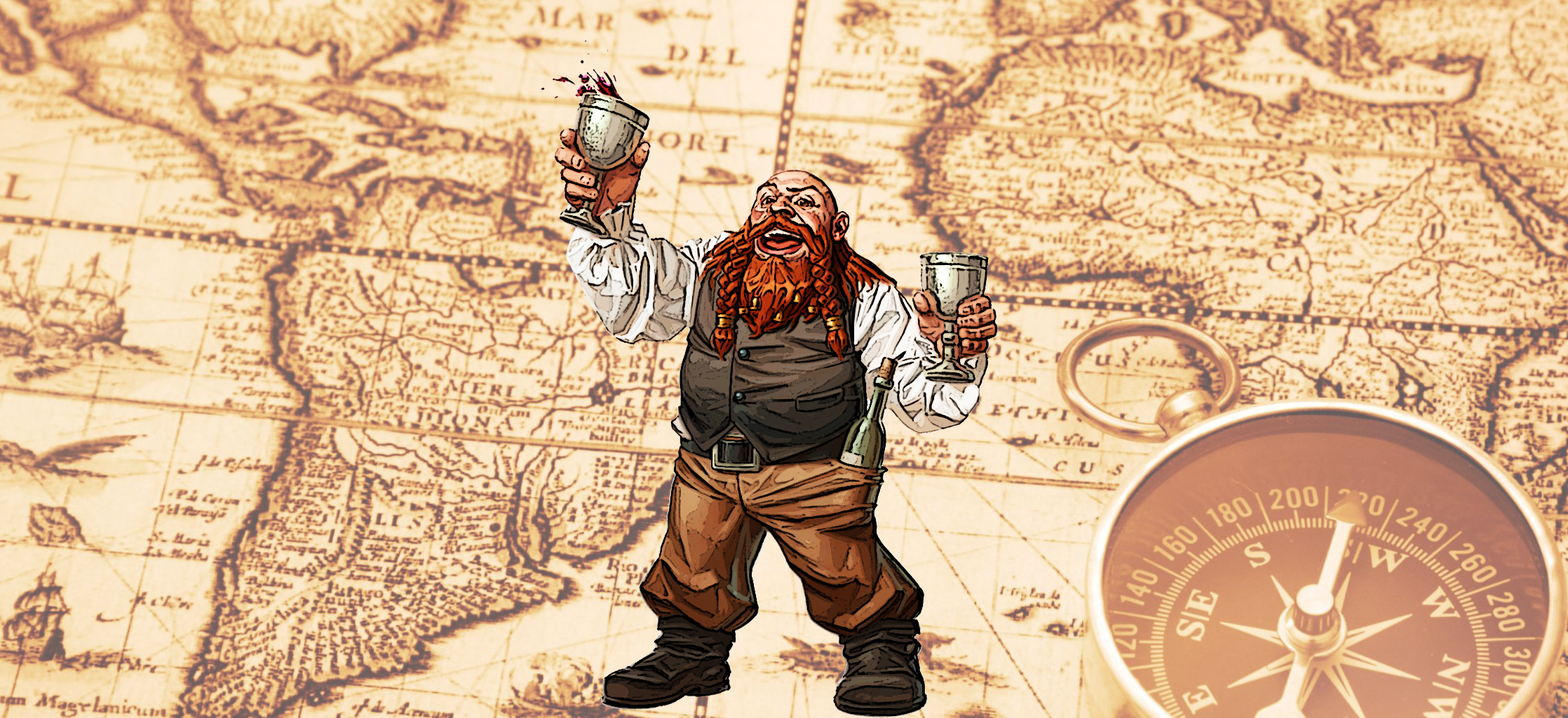
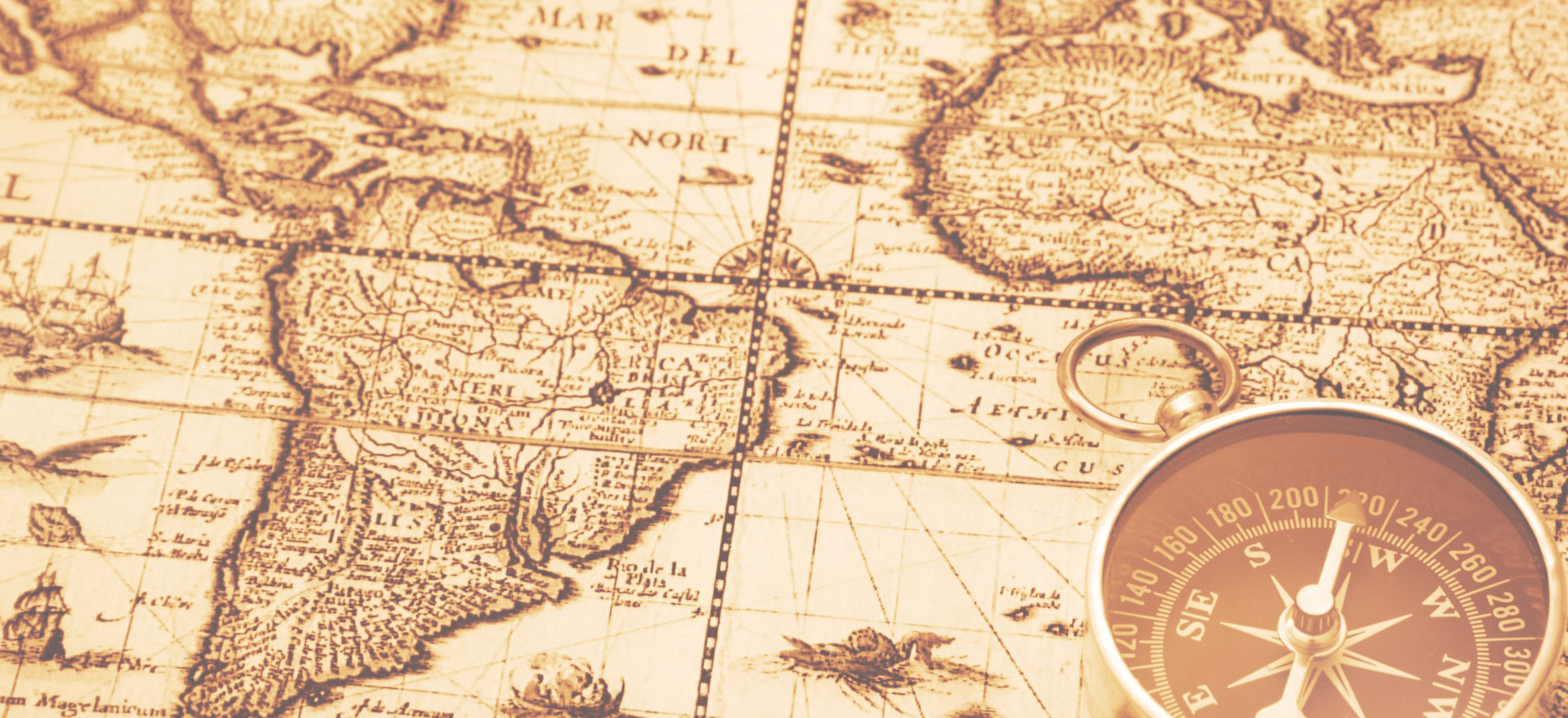
UI Changes

Changed region(s): [[0.3394, 0.0938, 0.648, 1.0]]

diff --git a/JustQuest/Client/JustQuest.UI/Styles/Styles.xaml b/JustQuest/Client/JustQuest.UI/Styles/Styles.xaml
@@ -110,4 +110,33 @@
         <Setter Property="Padding" Value="0"/>
     </Style>
 
+    <Style x:Key="ButtonStyle" TargetType="Button">
+        <Setter Property="Background">
+            <Setter.Value>
+                <LinearGradientBrush EndPoint="0.5,1" StartPoint="0.5,0">
+                    <GradientStop Color="#FFA3AEB9" Offset="0"/>
+                    <GradientStop Color="#FF8399A9" Offset="0.375"/>
+                    <GradientStop Color="#FF718597" Offset="0.375"/>
+                    <GradientStop Color="#FF617584" Offset="1"/>
+                </LinearGradientBrush>
+            </Setter.Value>
+        </Setter>
+    </Style>
+
+    <Style x:Key="PageStyle" TargetType="Grid">
+        <Setter Property="Background">
+            <Setter.Value>
+                <ImageBrush ImageSource="../Assets/bg1.png" Stretch="UniformToFill"></ImageBrush>
+                
+            </Setter.Value>
+        </Setter>
+    </Style>
+
+    <Style x:Key="MenuStyle" TargetType="ListView">
+        <Setter Property="Background" >
+            <Setter.Value>
+                <ImageBrush ImageSource="../Assets/dwarf.png" Stretch="Uniform" AlignmentY="Bottom"></ImageBrush>
+            </Setter.Value>
+        </Setter>
+    </Style>
 </ResourceDictionary>

diff --git a/JustQuest/Client/JustQuest.UI/App.xaml b/JustQuest/Client/JustQuest.UI/App.xaml
@@ -11,7 +11,12 @@
             <ResourceDictionary.MergedDictionaries>
                 <ResourceDictionary Source="Styles/Styles.xaml"/>
             </ResourceDictionary.MergedDictionaries>
-
+            <Style TargetType="Button"  BasedOn="{StaticResource ButtonStyle}" />
+            <!--<Style TargetType="StackPanel" BasedOn="{StaticResource StackPanelStyle}"/>
+           <Style TargetType="Image" BasedOn="{StaticResource ImageStyle}"/>
+           <Style TargetType="TextBlock" BasedOn="{StaticResource TextBlockStyle}"/>
+           <Style TargetType="TextBox" BasedOn="{StaticResource TextBoxStyle}"/>
+           <Style TargetType="PasswordBox" BasedOn="{StaticResource PasswordBoxStyle}"/>-->
         </ResourceDictionary>
     </Application.Resources>
 

diff --git a/JustQuest/Client/JustQuest.UI/AppShell.xaml b/JustQuest/Client/JustQuest.UI/AppShell.xaml
@@ -68,6 +68,7 @@
                 <controls:NavMenuListView x:Name="NavMenuList"
                                           TabIndex="3"
                                           Margin="0,48,0,0"
+                                          Style="{StaticResource MenuStyle}"
                                           ContainerContentChanging="NavMenuItemContainerContentChanging"
                                           ItemContainerStyle="{StaticResource NavMenuItemContainerStyle}"
                                           ItemTemplate="{StaticResource NavMenuItemTemplate}"

diff --git a/JustQuest/Client/JustQuest.UI/Pages/AddHint.xaml b/JustQuest/Client/JustQuest.UI/Pages/AddHint.xaml
@@ -8,9 +8,9 @@
     mc:Ignorable="d"
     xmlns:maps="using:Windows.UI.Xaml.Controls.Maps"
     xmlns:viewModels="using:JustQuest.UI.DataModels">
-    
-    <Grid Background="{ThemeResource ApplicationPageBackgroundThemeBrush}"
-          Margin="20,20,20,20">
+
+    <Grid Style="{StaticResource PageStyle}"
+        Margin="20,20,20,20">
         <Grid.RowDefinitions>
             <RowDefinition Height="2*"></RowDefinition>
             <RowDefinition Height="1*"></RowDefinition>

diff --git a/JustQuest/Client/JustQuest.UI/Pages/Login.xaml b/JustQuest/Client/JustQuest.UI/Pages/Login.xaml
@@ -8,10 +8,7 @@
     mc:Ignorable="d">
 
     <Grid Background="{ThemeResource ApplicationPageBackgroundThemeBrush}">
-        <Grid>
-            <Grid.Background>
-                <ImageBrush ImageSource="../Assets/bg1.png" Stretch="UniformToFill"/>
-            </Grid.Background>
+        <Grid Style="{StaticResource PageStyle}">            
             <Grid.RowDefinitions>
                 <RowDefinition Height="140"/>
                 <RowDefinition Height="*"/>

diff --git a/JustQuest/Client/JustQuest.UI/Pages/Register.xaml b/JustQuest/Client/JustQuest.UI/Pages/Register.xaml
@@ -9,10 +9,7 @@
     mc:Ignorable="d">
 
     <Grid Background="{ThemeResource ApplicationPageBackgroundThemeBrush}">
-        <Grid>
-            <Grid.Background>
-                <ImageBrush ImageSource="../Assets/bg1.png" Stretch="UniformToFill"/>
-            </Grid.Background>
+        <Grid Style="{StaticResource PageStyle}">
             <Grid.RowDefinitions>
                 <RowDefinition Height="140"/>
                 <RowDefinition Height="*"/>

diff --git a/JustQuest/Client/JustQuest.UI/Pages/MainPage.xaml b/JustQuest/Client/JustQuest.UI/Pages/MainPage.xaml
@@ -13,10 +13,8 @@
         <x:String x:Key="AppName">Dwarf Quest</x:String>
     </Page.Resources>
 
-    <Grid>
-        <Grid.Background>
-            <ImageBrush ImageSource="../Assets/bg1.png" Stretch="UniformToFill"/>
-        </Grid.Background>
+    <Grid Style="{StaticResource PageStyle}">
+        
         <Grid.RowDefinitions>
             <RowDefinition Height="Auto"/>
             <RowDefinition/>

diff --git a/JustQuest/Client/JustQuest.UI/Pages/AddQuest.xaml b/JustQuest/Client/JustQuest.UI/Pages/AddQuest.xaml
@@ -36,7 +36,7 @@
         </DataTemplate>
     </Page.Resources>
 
-    <Grid Background="{ThemeResource ApplicationPageBackgroundThemeBrush}"
+   <Grid Style="{StaticResource PageStyle}"
           Margin="20,20,20,20">
         <Grid.RowDefinitions>
             <RowDefinition Height="150"/>
